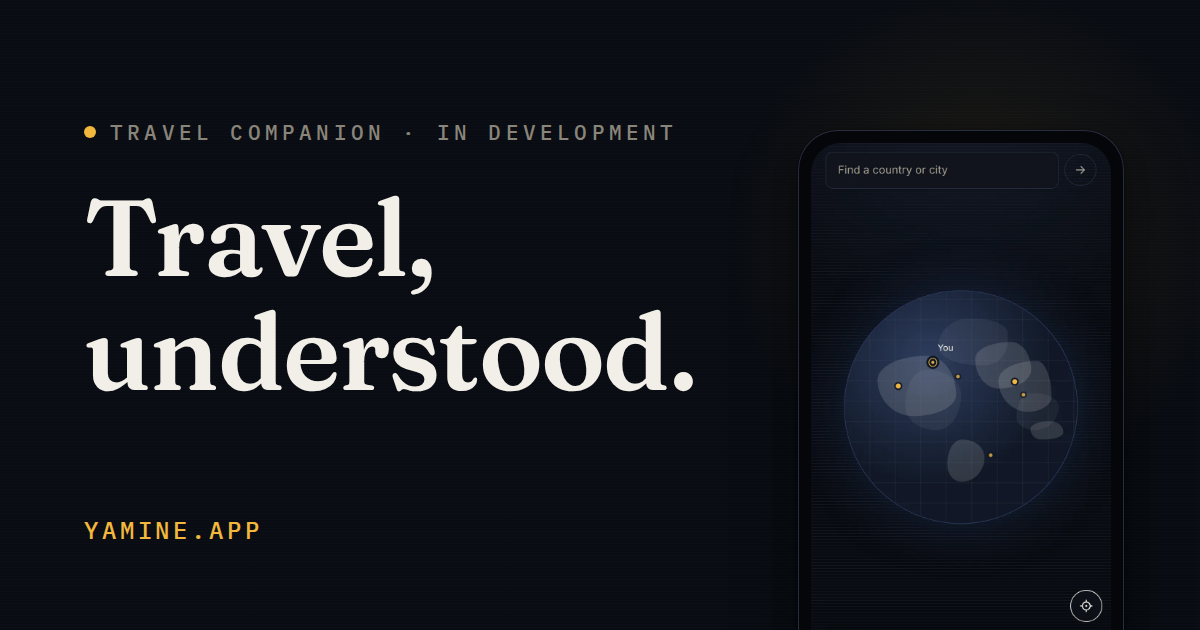
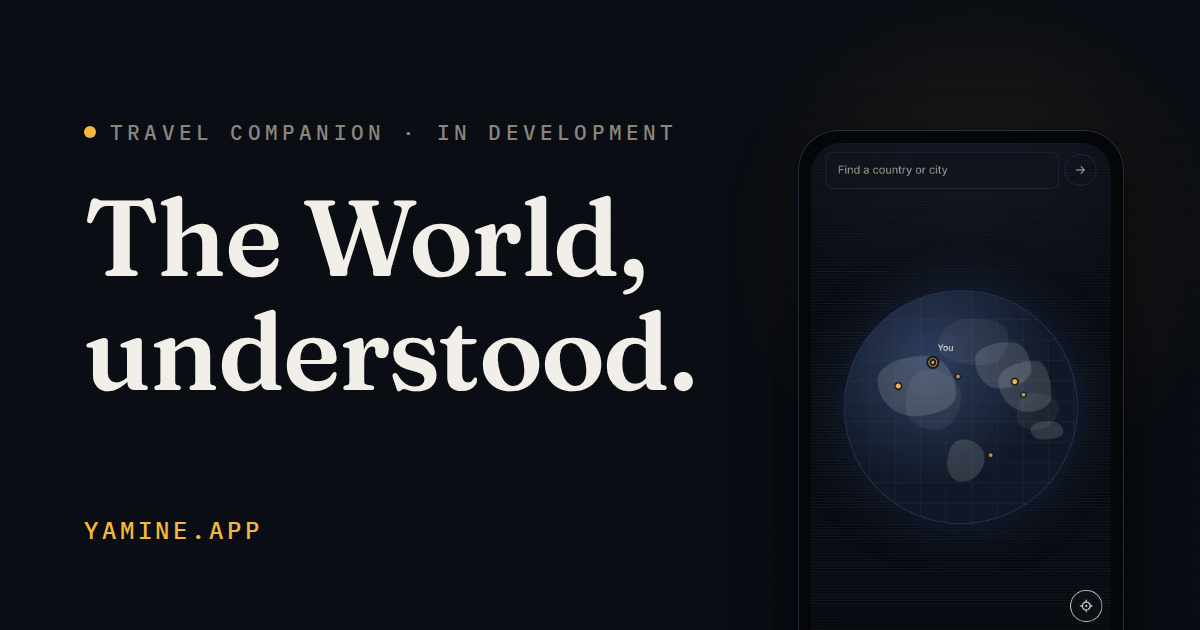
Hero: 'The World, understood.' (owner msg 1095) - headline, title, og:title, og image
Beyond a travel-only frame per his words; all travel copy elsewhere stays.
og image regenerated to match the header it renders (also now carries the
cleaned no-numbers globe). Gated phone+desktop before push.

Claude-Session: https://claude.ai/code/session_01RLqDW8RMWwETEeXqVpPgnv

Changed region(s): [[0.1233, 0.3016, 0.555, 0.4825]]

diff --git a/index.html b/index.html
@@ -3,10 +3,10 @@
 <head>
 <meta charset="utf-8">
 <meta name="viewport" content="width=device-width, initial-scale=1">
-<title>Yamine - Travel, understood</title>
+<title>Yamine - The World, understood</title>
 <meta name="description" content="Yamine is a travel companion app by Yamine Ltd: country knowledge checked against official sources and carried with its receipt, orientation from your first minute, trips that remember themselves. In development for iOS and Android.">
 <link rel="canonical" href="https://yamine.app/">
-<meta property="og:title" content="Yamine - Travel, understood">
+<meta property="og:title" content="Yamine - The World, understood">
 <meta property="og:description" content="Most travel apps show you places. Yamine tells you how a country works - before you land, and from the minute you do.">
 <meta property="og:url" content="https://yamine.app/">
 <meta property="og:type" content="website">
@@ -38,7 +38,7 @@
   <section class="hero">
     <div class="copy">
       <p class="eyebrow">Travel companion &middot; in development</p>
-      <h1 class="display">Travel,<br>understood.</h1>
+      <h1 class="display">The World,<br>understood.</h1>
       <p class="lede">Most travel apps show you places. Yamine tells you
       <strong>how a country works</strong> - entry, money, connectivity,
       transport, custom - before you land, and from the minute you do.
